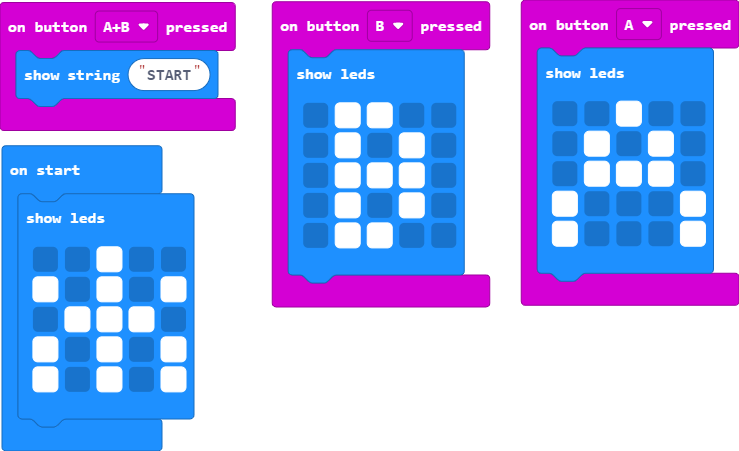
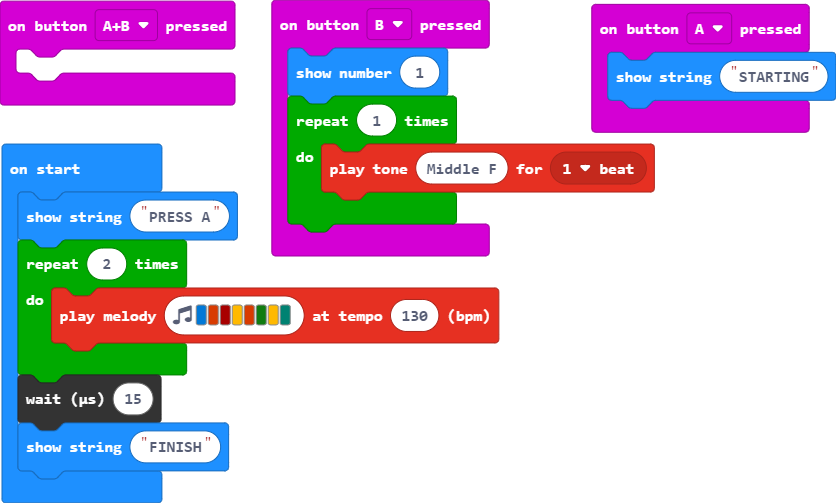
Update main.blocks, main.ts

diff --git a/main.ts b/main.ts
@@ -1,28 +1,18 @@
 input.onButtonPressed(Button.A, function () {
-    basic.showLeds(`
-        . . # . .
-        . # . # .
-        . # # # .
-        # . . . #
-        # . . . #
-        `)
+    basic.showString("STARTING")
 })
 input.onButtonPressed(Button.AB, function () {
-    basic.showString("START")
+	
 })
 input.onButtonPressed(Button.B, function () {
-    basic.showLeds(`
-        . # # . .
-        . # . # .
-        . # # # .
-        . # . # .
-        . # # . .
-        `)
+    basic.showNumber(1)
+    for (let index = 0; index < 1; index++) {
+        music.playTone(349, music.beat(BeatFraction.Whole))
+    }
 })
-basic.showLeds(`
-    . . # . .
-    # . # . #
-    . # # # .
-    # . # . #
-    # . # . #
-    `)
+basic.showString("PRESS A")
+for (let index = 0; index < 2; index++) {
+    music.playMelody("E B C5 A B G A F ", 130)
+}
+control.waitMicros(15)
+basic.showString("FINISH")
